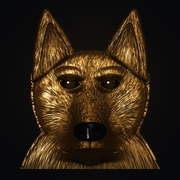
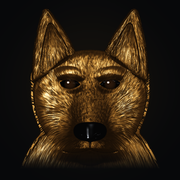
fix(brand): review fixes and stable browser tests for the gold emblem
- Small head image fades out at the bottom (no hard edge under the badge);
  maskable icon inside the safe zone.
- Test servers serve .webp as image/webp (served as octet-stream, WebKit's
  slower image handling overran the fake-clock windows); flip settle now
  waits for the leaves to land; reduced-motion test gets a wider margin;
  the emblem images must decode.
- build.cjs --png can no longer overwrite the realistic icons; icon.svg
  removed (unused); stale docs and comment updated.

Changed region(s): [[0.1111, 0.8333, 0.8889, 0.9444]]

diff --git a/style.css b/style.css
@@ -130,8 +130,7 @@ button { cursor: pointer; }
   background: linear-gradient(90deg, transparent, var(--line) 18%, var(--line) 82%, transparent) bottom / 100% 1px no-repeat;
 }
 .crown { display: flex; flex-direction: column; align-items: center; gap: 5px; padding-top: 2px; text-align: center; }
-/* JANGE emblem colours travel through inherited channels into the <symbol>:
-   color = tan (gold), fill = mask (obsidian), stroke = eye glint (system state). */
+/* Outline-mark colours (3.1 brand SVGs); the app itself now uses the realistic emblem images below. */
 .emblem { color: var(--gold); fill: #07080a; stroke: var(--accent); }
 .brand { display: flex; align-items: center; gap: 12px; min-height: 44px; color: var(--gold); text-decoration: none; }
 /* The realistic gold emblem is an image; its eye glints are a small overlay that keeps the

diff --git a/brand/realistic/export.py b/brand/realistic/export.py
@@ -19,6 +19,11 @@ def head(img, size, sharpen=True):
     """Head only: ear tips to chin, square, for the 30–46 px placements and icons."""
     c = img.crop((int(80 * U), int(50 * U), int(920 * U), int(890 * U)))  # ear tips to chin, square
     c = c.resize((size, size), Image.LANCZOS)
+    # The crop cuts through the ruff: fade its last 12 % so no hard edge shows under the badge.
+    fade = Image.linear_gradient("L").resize((size, int(size * 0.12)))
+    mask = Image.new("L", (size, size), 255)
+    mask.paste(fade.transpose(Image.FLIP_TOP_BOTTOM), (0, size - fade.height))
+    c.putalpha(Image.composite(c.getchannel("A"), Image.new("L", (size, size), 0), mask))
     return c.filter(ImageFilter.UnsharpMask(radius=0.8, percent=60, threshold=1)) if sharpen else c
 
 
@@ -57,7 +62,7 @@ def palette(img):
 palette(icon(512)).save(OUT / "icon-512.png", optimize=True)
 icon(192).save(OUT / "icon-192.png", optimize=True)
 icon(180, ring=False, emblem_frac=0.9).save(OUT / "icon-180.png", optimize=True)            # iOS rounds the corners
-palette(icon(512, ring=False, emblem_frac=0.70)).save(OUT / "icon-maskable-512.png", optimize=True)  # inside the 80 % safe zone
+palette(icon(512, ring=False, emblem_frac=0.60)).save(OUT / "icon-maskable-512.png", optimize=True)  # inside the 80 % safe zone
 icon(32, ring=False, emblem_frac=1.0).save(OUT / "favicon-32.png", optimize=True)
 for f in sorted(OUT.iterdir()):
     print(f"{f.name:28} {f.stat().st_size:>8,} bytes  {Image.open(f).size}")

diff --git a/README.md b/README.md
@@ -71,7 +71,7 @@ Sources: [Open-Meteo API documentation](https://open-meteo.com/en/docs) and [fre
 
 ## JANGE 3.1 verification and updates
 
-Unchanged: the `jarvis.desk.v2` key and schema, the legacy `jarvis_tasks` migration, `jarvis.weather.v1` (now also storing the rounded place), the version-2 backup format (3.1 adds optional `alarms` and `shiftPlan`; older backups restore unchanged). New keys: `jarvis.alarms.v1`, `jarvis.shifts.v1`; preferences (motion, clock format, wake lock, weather location) stay in `jarvis.prefs.v1` and are not backed up. The shell cache is `jarvis-desk-v3.2.0`; it adds `alarms.js`, `shifts.js`, `quotes.js`, Cormorant Garamond and the new icons. Close every JANGE/Jarvis window and reopen online to activate 3.1; do not clear website data.
+Unchanged: the `jarvis.desk.v2` key and schema, the legacy `jarvis_tasks` migration, `jarvis.weather.v1` (now also storing the rounded place), the version-2 backup format (3.1 adds optional `alarms` and `shiftPlan`; older backups restore unchanged). New keys: `jarvis.alarms.v1`, `jarvis.shifts.v1`; preferences (motion, clock format, wake lock, weather location) stay in `jarvis.prefs.v1` and are not backed up. The shell cache is `jarvis-desk-v3.2.0`; it adds `alarms.js`, `shifts.js`, `quotes.js`, Cormorant Garamond and the new icons. Close every JANGE/Jarvis window and reopen online to activate 3.2; do not clear website data.
 
 Design notes: [docs/jange-3.1-design.md](docs/jange-3.1-design.md) (alarms, shifts and the future backend contract, quote sourcing, location privacy, PC states) and [brand/README.md](brand/README.md). Tests: [tests/README.md](tests/README.md).
 

diff --git a/brand/README.md b/brand/README.md
@@ -39,7 +39,6 @@ The first sketches tapered to a point and looked like a fox. They were redrawn a
 | `jange-lockup-vertical.svg` | Stacked lockup on obsidian |
 | `jange-lockup-mono.svg` | Horizontal monochrome lockup |
 | `concepts/` | The three explored concepts, for the record |
-| `../icon.svg` | Browser favicon (head only, no ring, readable at 16–32 px) |
 | `../icon-180.png` | Apple touch icon (full bleed; iOS rounds the corners) |
 | `../icon-192.png`, `../icon-512.png` | PWA icons (`purpose: any`) |
 | `../icon-maskable-512.png` | PWA maskable icon, inside the 80 % safe zone |
@@ -89,7 +88,7 @@ There are no neon glows and no metallic gradients. The emblem works in a single 
 node brand/build.cjs
 ```
 
-That command writes the SVGs. Add `--png` with `PW` set to a Playwright package to rebuild the PNG icons.
+That command writes the outline-mark SVGs (the 3.1 identity, kept for the record). The app icons and in-app images now come from `realistic/export.py`; `--png` is retired so it cannot overwrite them.
 
 ## Realistic gold emblem (3.2, awaiting approval)
 
